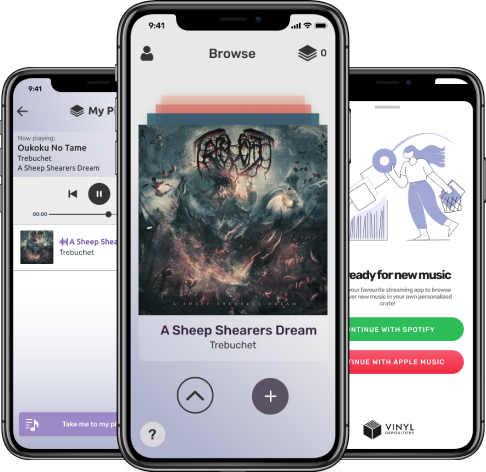
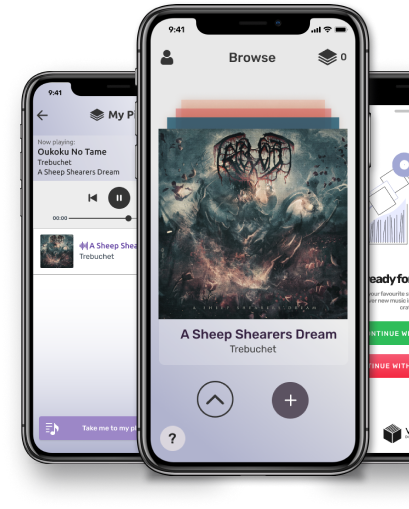
fix issue with the page

diff --git a/src/components/pages/Main/containers/RecommenderApp/RecommenderApp.module.scss b/src/components/pages/Main/containers/RecommenderApp/RecommenderApp.module.scss
@@ -103,11 +103,13 @@
 				display: none;
 			}
 			&__groupPhone-ipad {
+				// overflow: hidden;
 				display: block;
 				height: 540px;
 				position: relative;
 				bottom: 70px;
-				right: 30px;
+				left: 13px;
+				// right: 30px;
 				margin: 0 10px;
 			}
 			&__groupPhone-mobile {

diff --git a/src/components/pages/Main/containers/JoinWishlist/JoinWishlist.module.scss b/src/components/pages/Main/containers/JoinWishlist/JoinWishlist.module.scss
@@ -32,6 +32,7 @@
 	}
 
 	.joinWishlistText {
+		margin-bottom: 0px;
 		display: flex;
 		flex-direction: column;
 		margin-left: 50px;
@@ -48,7 +49,7 @@
 		}
 
 		.joinWishlistForm {
-			margin-top: 20px;
+			margin-top: 40px;
 			height: 50px;
 			display: flex;
 

diff --git a/src/components/pages/Main/containers/TypicalMarketplaces/TypicalMarketplaces.module.scss b/src/components/pages/Main/containers/TypicalMarketplaces/TypicalMarketplaces.module.scss
@@ -78,9 +78,11 @@
 				justify-content: center;
 
 				&__text {
+					margin: 20px 0;
+					width: 100%;
 					font-size: 1.4rem;
 					line-height: 23px;
-					padding: 0 20px;
+					padding: 0 10px;
 				}
 
 				&__img {

diff --git a/src/components/pages/Main/containers/Seller/Seller.module.scss b/src/components/pages/Main/containers/Seller/Seller.module.scss
@@ -128,8 +128,8 @@
 			}
 		}
 		.sellersSectionForm {
+			margin-left: 0px;
 			width: 100%;
-			// margin: 0;
 		}
 	}
 }
